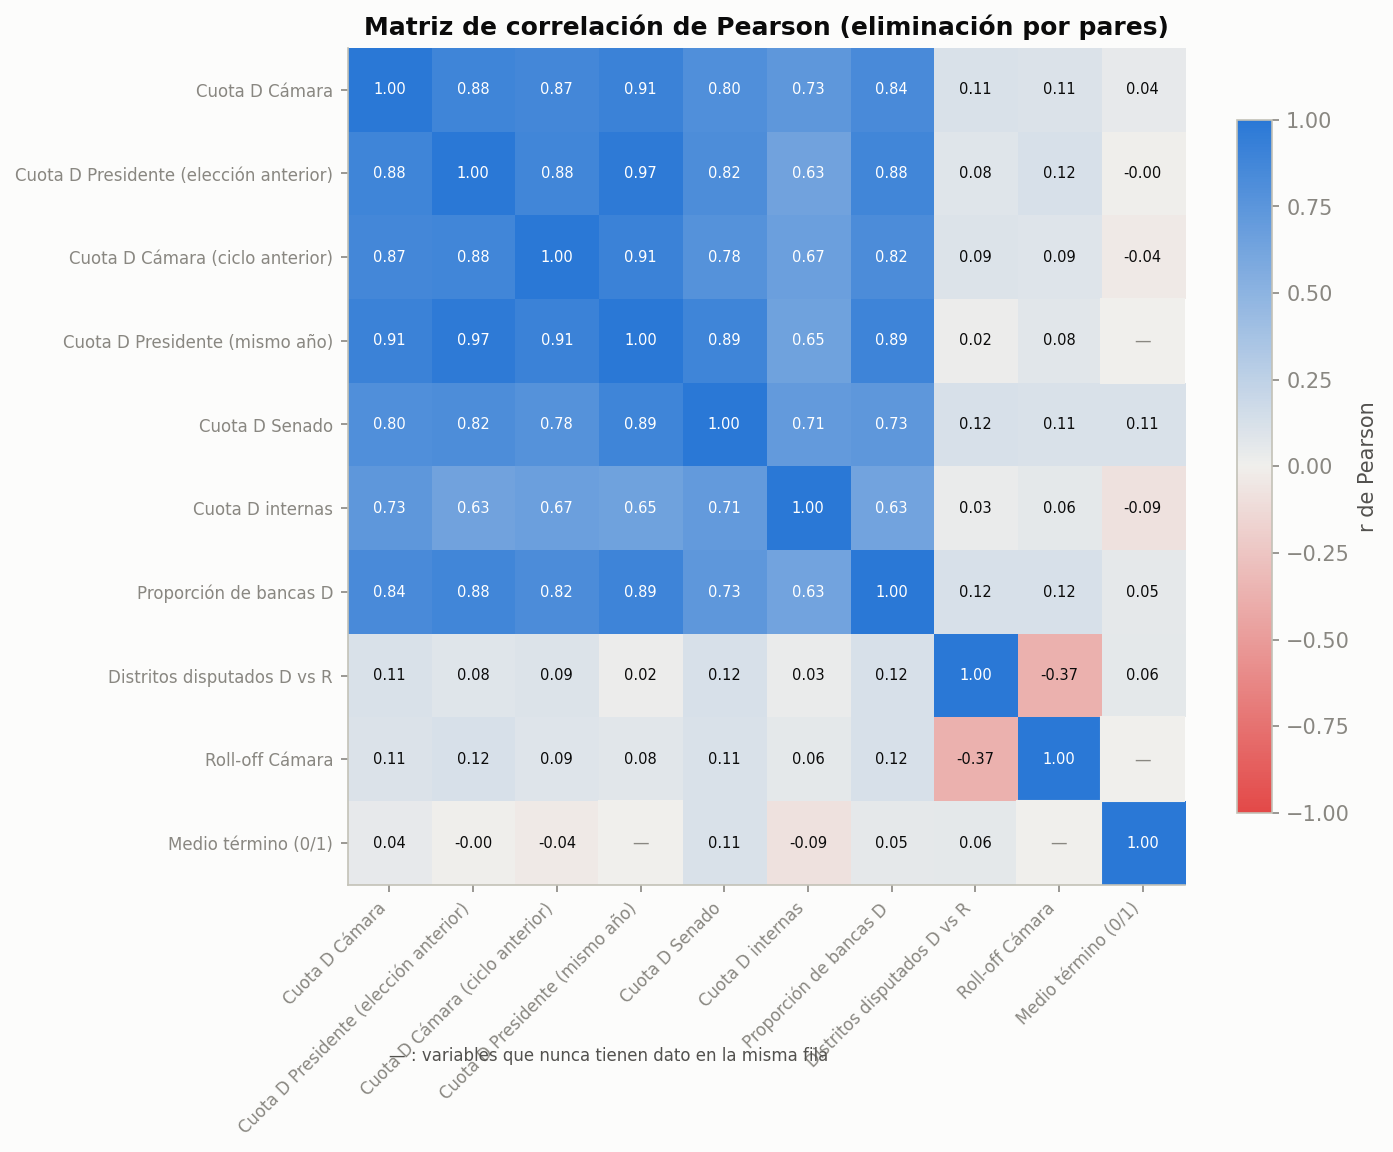
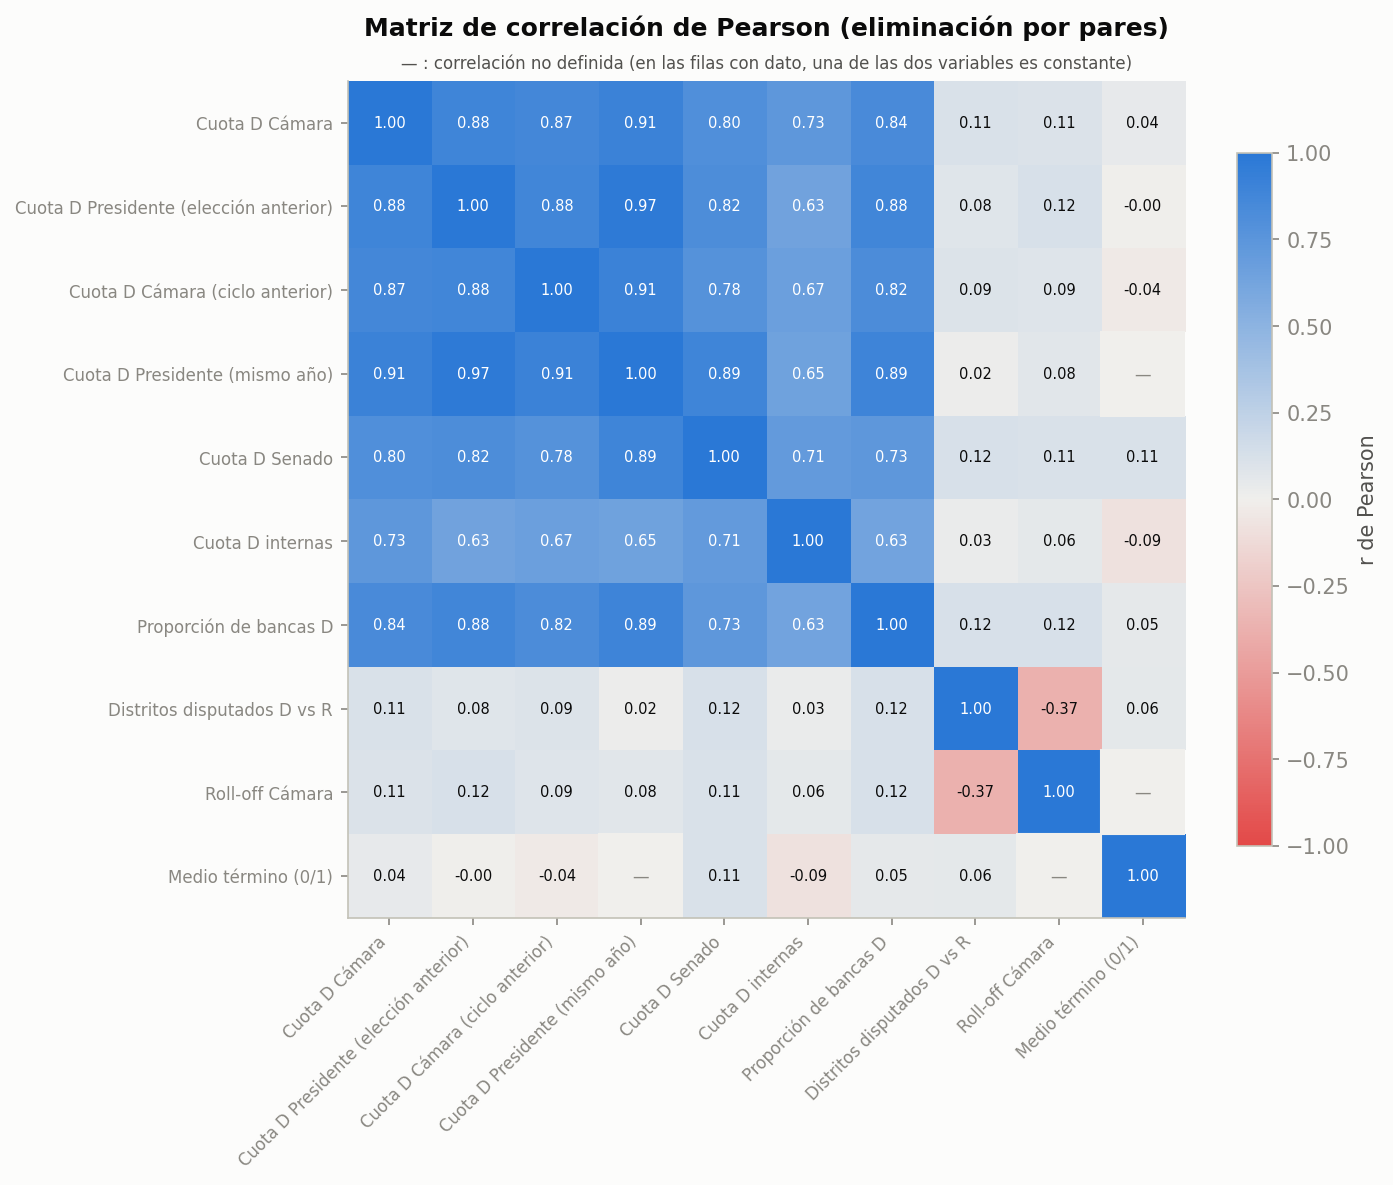
Fix Senate missing-data note and correlation matrix footnote
- GLOSARIO: each cycle renews 1/3 of Senate seats, so 16-17 states hold no race
- 04_exploratorio: move the undefined-correlation note under the title so it
  no longer overlaps the x tick labels, and state the actual cause

diff --git a/analisis_exploratorio/04_exploratorio.py b/analisis_exploratorio/04_exploratorio.py
@@ -122,16 +122,17 @@ ax.grid(False)
 for i in range(len(variables)):
     for j in range(len(variables)):
         v = pearson.values[i, j]
-        if np.isnan(v):   # nunca coexisten (p. ej. voto presidencial en años de medio término)
+        if np.isnan(v):   # sin variación conjunta: is_midterm es constante donde la otra tiene dato
             ax.add_patch(plt.Rectangle((j - 0.5, i - 0.5), 1, 1, color=GRIS_NEUTRO))
             ax.text(j, i, "—", ha="center", va="center", fontsize=8, color=GRIS)
             continue
         ax.text(j, i, f"{v:.2f}", ha="center", va="center", fontsize=7,
                 color="white" if abs(v) > 0.6 else TINTA)
 fig.colorbar(im, ax=ax, shrink=0.75, label="r de Pearson")
-ax.set_title("Matriz de correlación de Pearson (eliminación por pares)")
-ax.text(0, len(variables) + 1.6, "— : variables que nunca tienen dato en la misma fila",
-        fontsize=8, color=TINTA_2)
+ax.set_title("Matriz de correlación de Pearson (eliminación por pares)", pad=22)
+ax.text(0.5, 1.01, "— : correlación no definida (en las filas con dato, una de las dos variables "
+        "es constante)", transform=ax.transAxes, ha="center", va="bottom", fontsize=8,
+        color=TINTA_2)
 guardar(fig, "04_4_matriz_correlacion")
 
 # %% 2.2.3 Subconjuntos: todos vs solo disputados

diff --git a/GLOSARIO.md b/GLOSARIO.md
@@ -252,7 +252,7 @@ se realizó. Por eso se dejan vacías en vez de imputarse.
 | Columnas vacías | Filas | Motivo |
 |---|---|---|
 | `pres_*`, `house_dropoff`, `nat_pres_dem_share_2p` | 2018, 2022, 2026 | Años sin elección presidencial |
-| `senate_*` | Estados sin elección al Senado ese año | Cada estado elige 1/3 del Senado por ciclo |
+| `senate_*` | Estados sin elección al Senado ese año | Cada 2 años se renueva 1/3 de las bancas (33–35), así que 16 o 17 estados no eligen senador |
 | `senate_dem_share_2p` | Elecciones al Senado sin enfrentamiento D vs R | Por ejemplo, Sanders (independiente) en Vermont |
 | `*_lag`, `*_prev`, `house_dem_swing` | 2016 | Primer año del panel |
 | `house_primary_*` | 2024 y 2026 | El Clerk publica solo la elección general |
